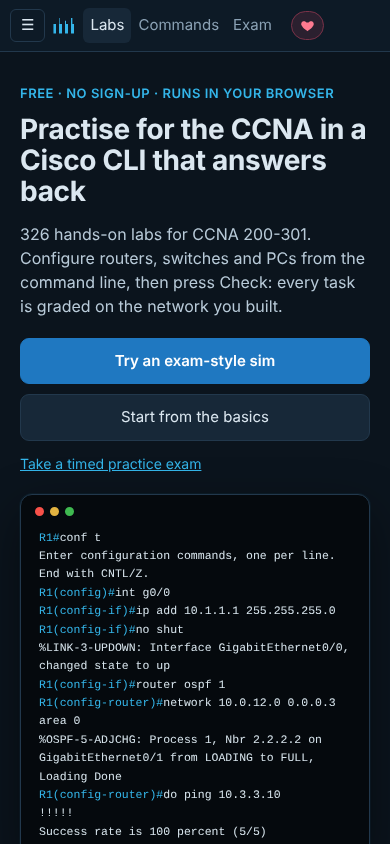
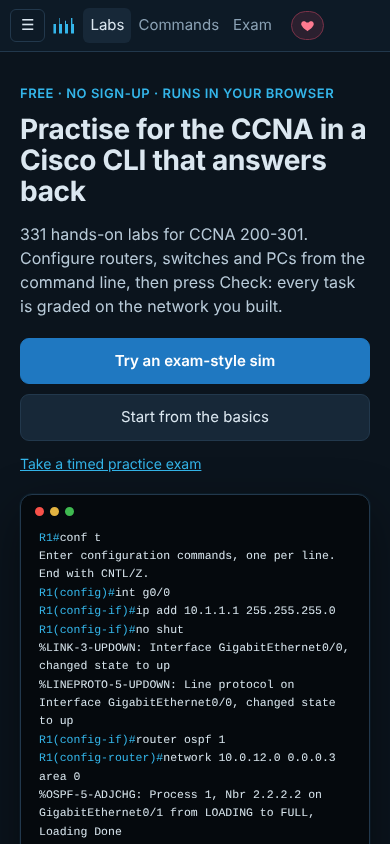
counts: 331 labs, 69 simulations, 36 challenge labs, 67 theory sets; the home page console is real engine output now (lineproto line, ping header, the first echo lost to arp, the full success line); fresh screenshots
Claude-Session: https://claude.ai/code/session_01DKqSYpXcHfRcwFMhr8jyc9

diff --git a/index.html b/index.html
@@ -4,14 +4,14 @@
 <meta charset="utf-8">
 <meta name="viewport" content="width=device-width, initial-scale=1">
 <title>CCNA Practise: free CCNA 200-301 labs with a Cisco IOS CLI in your browser</title>
-<meta name="description" content="326 free hands-on CCNA 200-301 labs in the browser. Type Cisco IOS commands into routers, switches and PCs; every task is checked against the network you built. Exam mode, challenge labs, no sign-up.">
+<meta name="description" content="331 free hands-on CCNA 200-301 labs in the browser. Type Cisco IOS commands into routers, switches and PCs; every task is checked against the network you built. Exam mode, challenge labs, no sign-up.">
 <meta name="theme-color" content="#0b141d">
 <meta name="build" content="dev">
 <link rel="icon" href="favicon.svg" type="image/svg+xml">
 <meta property="og:type" content="website">
 <meta property="og:site_name" content="CCNA Practise">
 <meta property="og:title" content="CCNA Practise: free CCNA labs with a Cisco IOS CLI in your browser">
-<meta property="og:description" content="326 hands-on labs for CCNA 200-301: routers, switches and PCs you configure from the CLI, checked automatically. Exam mode and challenge labs. Free, no sign-up.">
+<meta property="og:description" content="331 hands-on labs for CCNA 200-301: routers, switches and PCs you configure from the CLI, checked automatically. Exam mode and challenge labs. Free, no sign-up.">
 <meta property="og:url" content="https://arpwatcher.github.io/CCNA-Practise-/">
 <meta property="og:image" content="https://arpwatcher.github.io/CCNA-Practise-/og.png">
 <meta property="og:image:width" content="1200">

diff --git a/app.js b/app.js
@@ -662,12 +662,15 @@ Enter configuration commands, one per line.  End with CNTL/Z.
 <span class="p">R1(config-if)#</span>ip add 10.1.1.1 255.255.255.0
 <span class="p">R1(config-if)#</span>no shut
 %LINK-3-UPDOWN: Interface GigabitEthernet0/0, changed state to up
+%LINEPROTO-5-UPDOWN: Line protocol on Interface GigabitEthernet0/0, changed state to up
 <span class="p">R1(config-if)#</span>router ospf 1
 <span class="p">R1(config-router)#</span>network 10.0.12.0 0.0.0.3 area 0
 %OSPF-5-ADJCHG: Process 1, Nbr 2.2.2.2 on GigabitEthernet0/1 from LOADING to FULL, Loading Done
 <span class="p">R1(config-router)#</span>do ping 10.3.3.10
-!!!!!
-Success rate is 100 percent (5/5)<span class="cursor"></span></pre>
+Type escape sequence to abort.
+Sending 5, 100-byte ICMP Echos to 10.3.3.10, timeout is 2 seconds:
+.!!!!
+Success rate is 80 percent (4/5), round-trip min/avg/max = 1/2/4 ms<span class="cursor"></span></pre>
   </div>
   <div class="stats">
     <div><b>${LABS.length}</b><span>labs</span></div>

diff --git a/README.md b/README.md
@@ -4,7 +4,7 @@
 
 **Free CCNA 200-301 labs with a Cisco IOS command line, right in your browser.**
 
-326 hands-on labs · 68 exam-style simulations · 35 challenge labs · 63 theory question sets · exam mode · no sign-up, no install
+331 hands-on labs · 69 exam-style simulations · 36 challenge labs · 67 theory question sets · exam mode · no sign-up, no install
 
 ### [Open the labs →](https://arpwatcher.github.io/CCNA-Practise-/)
 
@@ -72,8 +72,8 @@ answer passes.
 | IPv6 | addressing, EUI-64, link-local, SLAAC, static routes | 10 |
 | Device management | IOS image, boot system, config-register, TFTP | 4 |
 | Host OS commands | Windows, Linux and macOS: ipconfig, ip addr, ifconfig, routing tables, ARP, DNS | 24 |
-| Exhibit questions | subnetting (VLSM, drills, host settings), show version, show standby, show interfaces trunk, MAC and ARP tables, a topology from CDP, route summarization, IPv6 compression, EtherChannel modes, STP election, wildcard masks, ACL placement, OSPF cost, CDP vs LLDP, port security modes, IPv6 static routes, TCP windowing, interface errors, NAT terms, OSPF LSA types, PoE, Layer 3 switches, wireless signal and roaming, IPv6 subnetting, address types and Neighbor Discovery, STP port states and timers, OSPF neighbor states, passwords and hashing, control/data/management planes, private ranges and APIPA, ports and TCP/UDP, DHCP, DNS, SNMP and NTP, syslog, FHRP, 802.1X, WPA/WPA2/WPA3, WLAN creation in the WLC GUI, AP modes, 2.4 GHz channels, threats, VPNs, WAN links, cloud, cabling, architectures, virtualization, SD-Access, REST, JSON, Ansible and other config tools, QoS | 63 |
-| Challenge labs | bigger topologies, several topics, faults and questions | 35 |
+| Exhibit questions | subnetting (VLSM, drills, host settings), interface status and protocol, show ipv6 interface, OSPF neighbors on a shared segment, EtherChannel summary flags, show version, show standby, show interfaces trunk, MAC and ARP tables, a topology from CDP, route summarization, IPv6 compression, EtherChannel modes, STP election, wildcard masks, ACL placement, OSPF cost, CDP vs LLDP, port security modes, IPv6 static routes, TCP windowing, interface errors, NAT terms, OSPF LSA types, PoE, Layer 3 switches, wireless signal and roaming, IPv6 subnetting, address types and Neighbor Discovery, STP port states and timers, OSPF neighbor states, passwords and hashing, control/data/management planes, private ranges and APIPA, ports and TCP/UDP, DHCP, DNS, SNMP and NTP, syslog, FHRP, 802.1X, WPA/WPA2/WPA3, WLAN creation in the WLC GUI, AP modes, 2.4 GHz channels, threats, VPNs, WAN links, cloud, cabling, architectures, virtualization, SD-Access, REST, JSON, Ansible and other config tools, QoS | 67 |
+| Challenge labs | bigger topologies, several topics, faults and questions | 36 |
 | Legacy (not on 200-301) | RIP, EIGRP, VTP | 5 |
 
 Labs marked **sim** are short scenarios like the exam simulations. The
